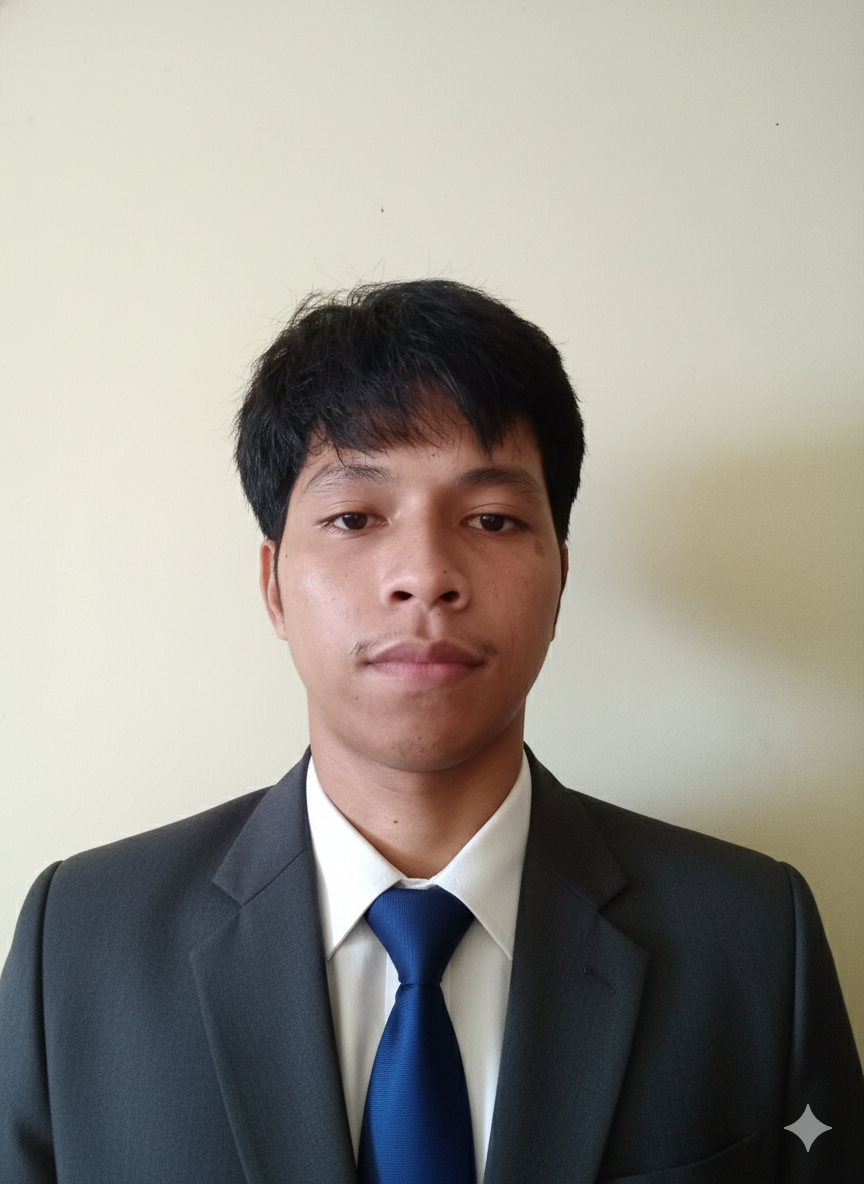
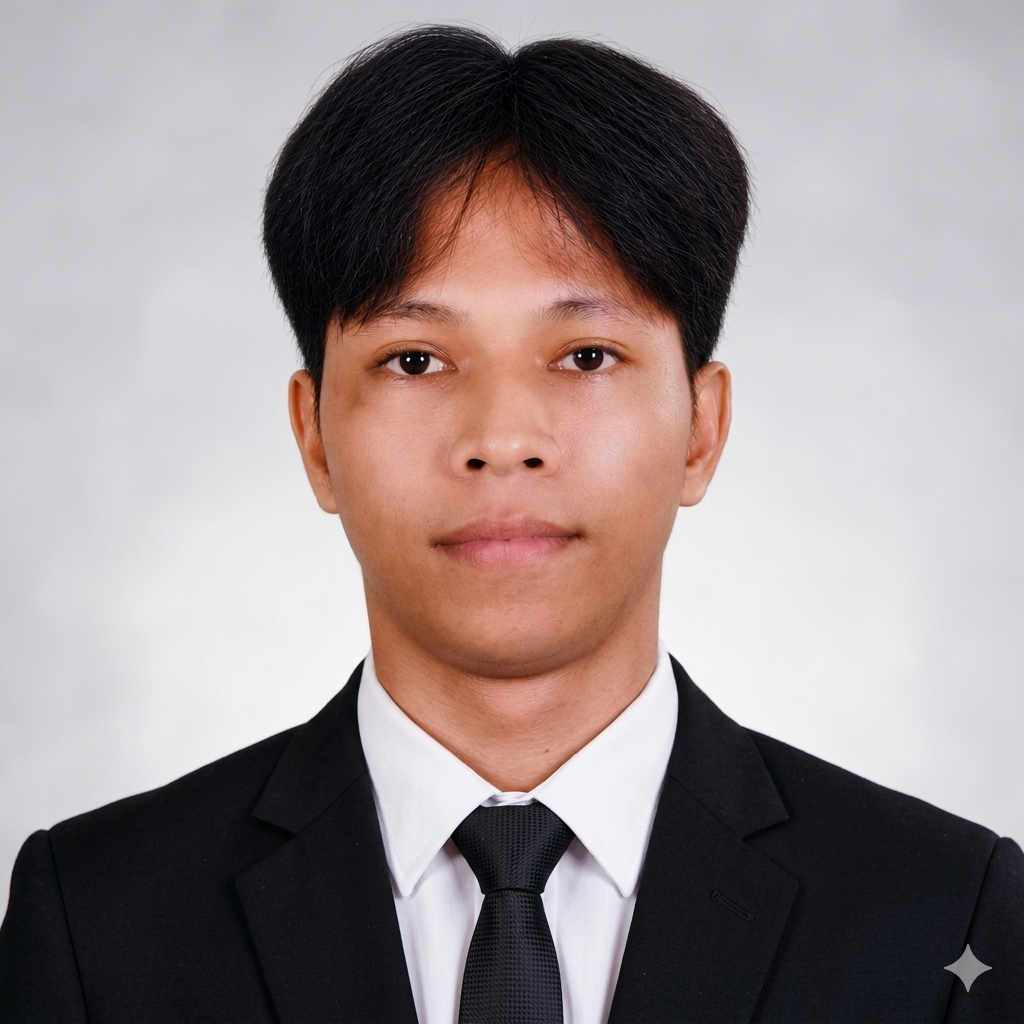
feat: Update the Resume page and the profile picture.

diff --git a/src/views/Resume.vue b/src/views/Resume.vue
@@ -6,33 +6,29 @@ import profileImage from '../assets/assests/images/profile.png'
 const router = useRouter()
 const isDarkMode = ref(true)
 
-const skills = ['Git & GitHub', 'HTML5', 'CSS3', 'JavaScript', 'Laravel', 'SQL', 'React', 'Vue.js', 'Tailwind', 'Bootstrap', 'Storybook', 'Oracle SQL', 'PHP']
-
 const experience = [
   {
     role: 'Software Engineer Intern',
     company: 'Thy Web Dev Inc.',
     period: 'Present',
     summary:
-      'Designed and developed comprehensive web applications and server configuration tools with Git integration and deployment processes.',
+      'Designed and developed a server configuration dashboard using the Vultr API, automating DNS subdomain management and integrating Git-based deployment workflows to streamline server monitoring.',
     points: [
-      'Designed and developed a server configuration app with Git and deployment process to manage and monitor DNS subdomains.',
-      'Designed and developed a web-based system for managing internship programs.',
-      'Designed a school portal website for Sherman Hill Integrated School.',
-      'Designed a website for VoteInfo - Candidate & PartyList Information Platform.'
+      'Architected and developed a web-based system to track internship documentation and compliance, utilizing PHP to improve administrative efficiency for student records.',
+      'Designed a responsive school portal for School, enhancing institutional communication and accessibility for students and faculty.',
+      'Developed a candidate and party-list information platform, prioritizing user experience and data accessibility to ensure transparent information dissemination for voters.'
     ]
   },
   {
     role: 'Freelance Developer',
     company: 'Freelance',
-    period: '2023 - Present',
+    period: '2023 – Present',
     summary:
-      'Created system designs and developed various web-based solutions for clients and educational institutions.',
+      'Collaborated with clients to translate project requirements into comprehensive system designs, including database schema development and process mapping.',
     points: [
-      'Created system design for clients (e.g., student projects) for their project requirements.',
-      'Developed local web-based systems for client and school projects.',
-      'Developed student information and grading management system for school_final project.',
-      'Developed interactive Philippine Population Dashboard with datasets and SVG map visualization.'
+      'Engineered scalable local web-based systems for academic and client-specific requirements, focusing on intuitive interfaces and optimized database performance.',
+      'Developed a centralized management system for academic records, automating grading processes and data retrieval to streamline school administrative tasks.',
+      'Built an interactive Philippine Population Dashboard utilizing real-time datasets and scalable vector graphics (SVG) to provide accessible and engaging data insights.'
     ]
   }
 ]
@@ -169,9 +165,9 @@ onMounted(() => {
               <p class="font-medium tracking-wide text-primary">Entry Level Web & System Developer</p>
             </div>
             <p class="text-sm leading-relaxed text-on-surface-variant">
-              Entry Level Web & System Developer with expertise in system design, school management systems, and interactive web applications.
-              Proficient in PHP, Laravel, Vue.js, React, and modern web technologies. Passionate about creating scalable and
-              user-centric solutions.
+              Entry Level Web & System Developer with expertise in system design, school management systems,
+              and interactive web applications. Proficient in PHP, Laravel, Vue.js, React, and modern web
+              technologies. Passionate about creating scalable and user-centric solutions.
             </p>
           </section>
 
@@ -180,29 +176,82 @@ onMounted(() => {
             <ul class="space-y-3">
               <li class="flex items-center gap-4 text-sm text-on-surface-variant">
                 <span class="material-symbols-outlined text-lg text-primary">mail</span>
-                luste.jonhmark19@gmail.com
+                luste.johnmark19@gmail.com
               </li>
               <li class="flex items-center gap-4 text-sm text-on-surface-variant">
                 <span class="material-symbols-outlined text-lg text-primary">public</span>
-                Sagay City, Neg. Occ.
+                Sagay City, Negros Occidental
               </li>
               <li class="flex items-center gap-4 text-sm text-on-surface-variant">
                 <span class="material-symbols-outlined text-lg text-primary">call</span>
-                09507791280
+                +639507791280
               </li>
             </ul>
           </section>
 
           <section class="space-y-6">
             <h3 class="text-xs font-label uppercase tracking-[0.2em] text-outline">Technical Arsenal</h3>
-            <div class="flex flex-wrap gap-2">
-              <span
-                v-for="skill in skills"
-                :key="skill"
-                class="rounded-lg border border-outline-variant/20 bg-surface-container-high px-3 py-1 text-xs font-medium text-primary"
-              >
-                {{ skill }}
-              </span>
+            <div class="space-y-4">
+              <div>
+                <p class="text-xs font-bold uppercase tracking-widest text-primary mb-2">Programming</p>
+                <div class="flex flex-wrap gap-2">
+                  <span
+                    v-for="skill in ['PHP', 'JavaScript', 'SQL']"
+                    :key="skill"
+                    class="rounded-lg border border-outline-variant/20 bg-surface-container-high px-3 py-1 text-xs font-medium text-primary"
+                  >
+                    {{ skill }}
+                  </span>
+                </div>
+              </div>
+              <div>
+                <p class="text-xs font-bold uppercase tracking-widest text-primary mb-2">Web Development</p>
+                <div class="flex flex-wrap gap-2">
+                  <span
+                    v-for="skill in ['HTML5', 'CSS3', 'Bootstrap', 'AJAX']"
+                    :key="skill"
+                    class="rounded-lg border border-outline-variant/20 bg-surface-container-high px-3 py-1 text-xs font-medium text-primary"
+                  >
+                    {{ skill }}
+                  </span>
+                </div>
+              </div>
+              <div>
+                <p class="text-xs font-bold uppercase tracking-widest text-primary mb-2">Frameworks & Libraries</p>
+                <div class="flex flex-wrap gap-2">
+                  <span
+                    v-for="skill in ['Laravel', 'React', 'Vue.js', 'Tailwind', 'Bootstrap']"
+                    :key="skill"
+                    class="rounded-lg border border-outline-variant/20 bg-surface-container-high px-3 py-1 text-xs font-medium text-primary"
+                  >
+                    {{ skill }}
+                  </span>
+                </div>
+              </div>
+              <div>
+                <p class="text-xs font-bold uppercase tracking-widest text-primary mb-2">Database Management</p>
+                <div class="flex flex-wrap gap-2">
+                  <span
+                    v-for="skill in ['MySQL / MariaDB', 'Firebase']"
+                    :key="skill"
+                    class="rounded-lg border border-outline-variant/20 bg-surface-container-high px-3 py-1 text-xs font-medium text-primary"
+                  >
+                    {{ skill }}
+                  </span>
+                </div>
+              </div>
+              <div>
+                <p class="text-xs font-bold uppercase tracking-widest text-primary mb-2">Tools</p>
+                <div class="flex flex-wrap gap-2">
+                  <span
+                    v-for="skill in ['Git/GitHub', 'Composer', 'XAMPP', 'VS Code']"
+                    :key="skill"
+                    class="rounded-lg border border-outline-variant/20 bg-surface-container-high px-3 py-1 text-xs font-medium text-primary"
+                  >
+                    {{ skill }}
+                  </span>
+                </div>
+              </div>
             </div>
           </section>
 
@@ -211,15 +260,45 @@ onMounted(() => {
             <div class="space-y-4">
               <div>
                 <p class="text-sm font-bold text-on-surface">Bachelor of Science in Information Technology</p>
-                <p class="text-xs text-on-surface-variant">State University of Northern Negros (SUNN) - 2026</p>
+                <p class="text-xs text-on-surface-variant">State University of Northern Negros (SUNN) - Old Sagay Campus - Brgy. Old Sagay, Sagay City, Negros Occidental - 2026</p>
               </div>
               <div>
-                <p class="text-sm font-bold text-on-surface">High School Diploma - With Honors</p>
-                <p class="text-xs text-on-surface-variant">Bato National High School - 2020</p>
+                <p class="text-sm font-bold text-on-surface">With Honors - High School Diploma</p>
+                <p class="text-xs text-on-surface-variant">Bato National High School - Brgy. Bato, Sagay City, Negros Occidental - 2020</p>
               </div>
               <div>
-                <p class="text-sm font-bold text-on-surface">Elementary School Diploma - With Honors</p>
-                <p class="text-xs text-on-surface-variant">Sherman Hill Integrated School - 2017</p>
+                <p class="text-sm font-bold text-on-surface">With Honors - Elementary School Diploma</p>
+                <p class="text-xs text-on-surface-variant">Sherman Hill Integrated School - Prk. Silica, Brgy. Baviera, Sagay City, Negros Occidental - 2017</p>
+              </div>
+            </div>
+          </section>
+
+          <section class="space-y-4 rounded-xl border border-outline-variant/10 bg-surface-container-low p-6">
+            <h3 class="text-xs font-label uppercase tracking-[0.2em] text-outline">Additional Information</h3>
+            <div class="space-y-4">
+              <div>
+                <p class="text-sm font-bold text-on-surface">Soft Skills</p>
+                <div class="flex flex-wrap gap-2">
+                  <span
+                    v-for="skill in ['Communication Skills', 'Time Management', 'Creativity', 'Collaboration']"
+                    :key="skill"
+                    class="rounded-lg border border-outline-variant/20 bg-surface-container-high px-3 py-1 text-xs font-medium text-primary"
+                  >
+                    {{ skill }}
+                  </span>
+                </div>
+              </div>
+              <div>
+                <p class="text-sm font-bold text-on-surface">Language</p>
+                <p class="text-xs text-on-surface-variant">English, Filipino</p>
+              </div>
+              <div>
+                <p class="text-sm font-bold text-on-surface">Certification</p>
+                <p class="text-xs text-on-surface-variant">University Week Technovation Pitch Exhibit and Competition, Educational Tour, and OJT Completion Certificate – Thy Web Development Inc.</p>
+              </div>
+              <div>
+                <p class="text-sm font-bold text-on-surface">Awards/Activities</p>
+                <p class="text-xs text-on-surface-variant">3rd Place Technovation Competition</p>
               </div>
             </div>
           </section>
@@ -337,17 +416,8 @@ onMounted(() => {
       <div class="mx-auto flex w-full max-w-7xl flex-col items-center justify-between gap-6 md:flex-row">
         <div class="text-sm font-medium uppercase tracking-wide text-on-surface-variant">&copy; 2024 Digital Architect. Built with precision.</div>
         <div class="flex gap-8">
-          <a class="text-sm font-medium uppercase tracking-wide text-on-surface-variant transition-colors duration-200 hover:text-primary" href="#"
-            >Github</a
-          >
-          <a class="text-sm font-medium uppercase tracking-wide text-on-surface-variant transition-colors duration-200 hover:text-primary" href="#"
-            >LinkedIn</a
-          >
-          <a class="text-sm font-medium uppercase tracking-wide text-on-surface-variant transition-colors duration-200 hover:text-primary" href="#"
-            >Twitter</a
-          >
-          <a class="text-sm font-medium uppercase tracking-wide text-on-surface-variant transition-colors duration-200 hover:text-primary" href="#"
-            >Layers</a
+          <a class="text-sm font-medium uppercase tracking-wide text-on-surface-variant transition-colors duration-200 hover:text-primary" href="https://portofilio-john-2i1q.vercel.app"
+            >portofilio-john-2i1q.vercel.app</a
           >
         </div>
       </div>
